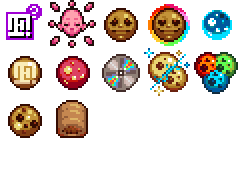
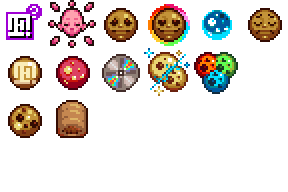
Add Eercermer achievement

diff --git a/fractylcookie.js b/fractylcookie.js
@@ -68,6 +68,7 @@ Game.registerMod('fractylCookie',{
     this.addAchievement("Fibonacci", "Have at least <b>1 of the most expensive building, 1 of the second-most expensive, 2 of the next, 3 of the next, 5 of the next</b> and so on (capped at 377).",[23,12],7000.08,'normal');
     this.addAchievement("Golden combination", "Have <b>2 positive multiplier buffs</b> active simultaneously.",[3,1,this.icons],10000.3,'normal');
     this.addAchievement("Golden triple", "Have <b>3 positive multiplier buffs</b> active simultaneously.",[4,1,this.icons],10000.301,'normal');
+    this.addAchievement("Really-er?", "Use the <b>Extra-er Content-er Mod-er</b>.<q>You're gonna need thousands of frames per second, an autoclicker, and a LOT of free time.</q>",[5,0,this.icons],69422,'shadow');
     LocalizeUpgradesAndAchievs();
   },
   checkAchievements:function() {
@@ -80,6 +81,7 @@ Game.registerMod('fractylCookie',{
     ) {Game.Win('Pretty pink priorities')};
     if (Game.bakeryName.toLowerCase() =='fractyl') {Game.Win('Regular person complex')};
     if (Game.mods['extraContent'] !== undefined) {Game.Win('Really?')}
+    if (Game.mods['Eercermer'] !== undefined) {Game.Win('Really-er?')}
     let isafibonacci = 1;
     if (!Game.HasAchiev('Fibonacci')) {
       for (var i in Game.Objects) {
